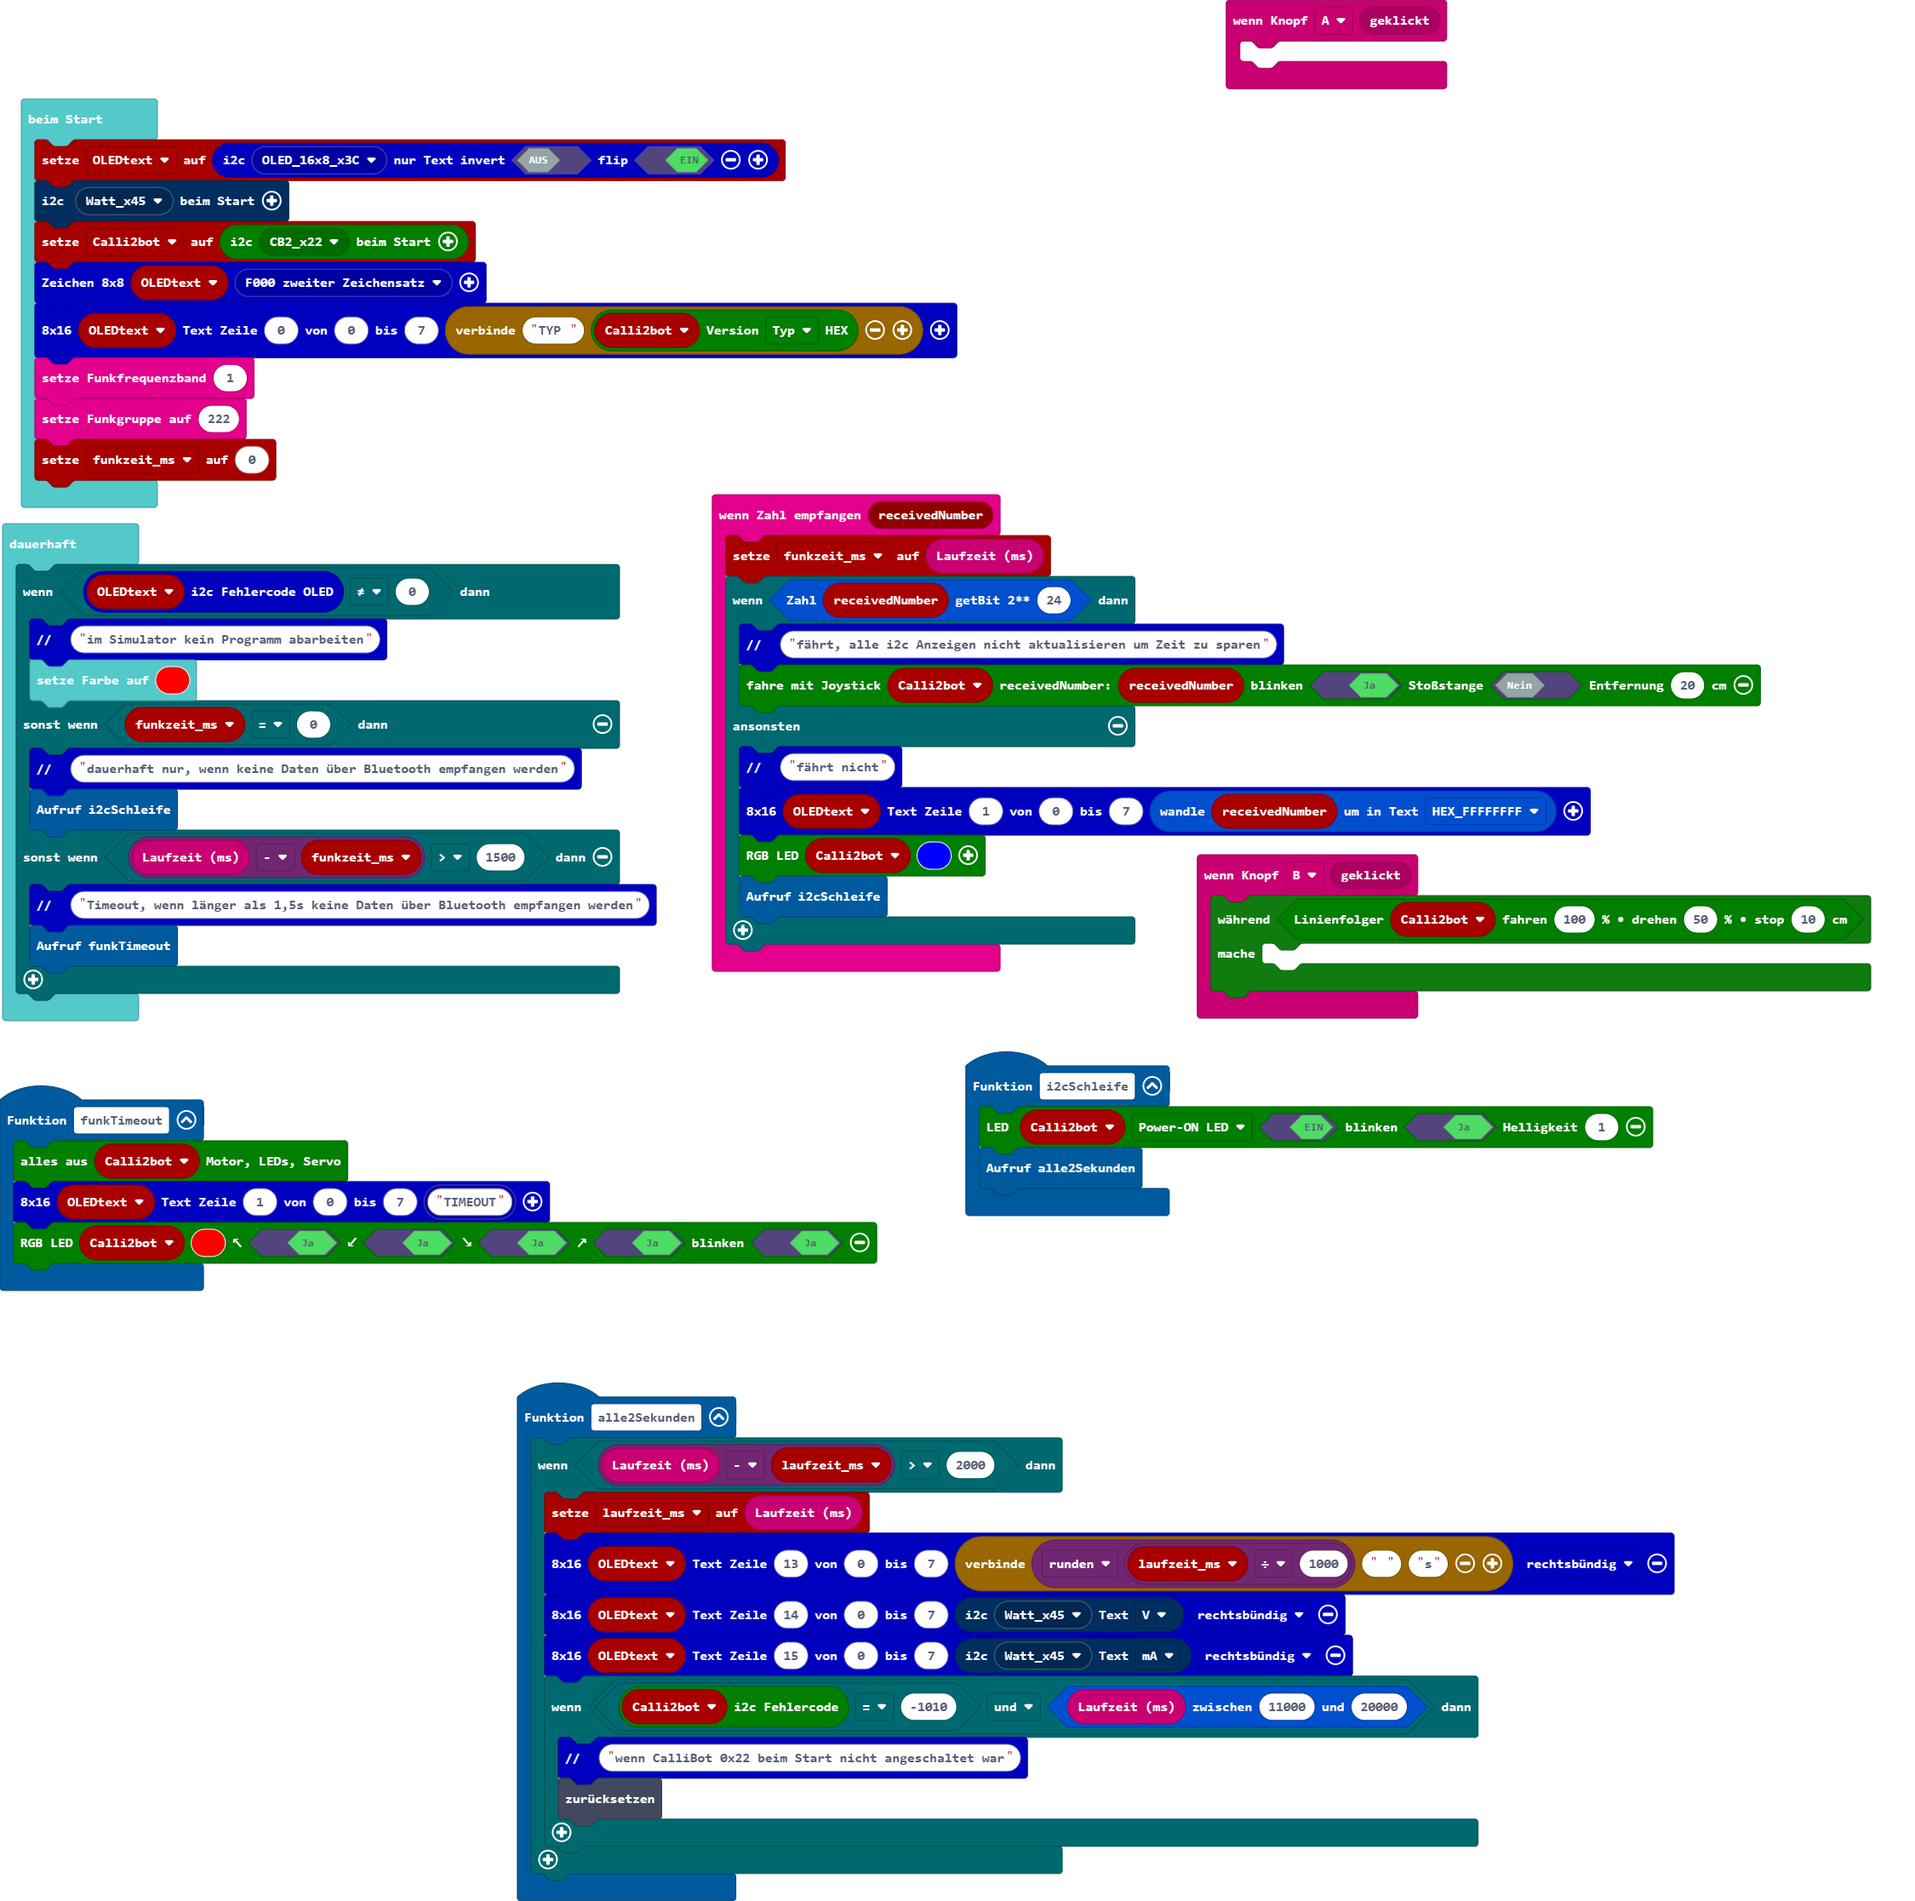
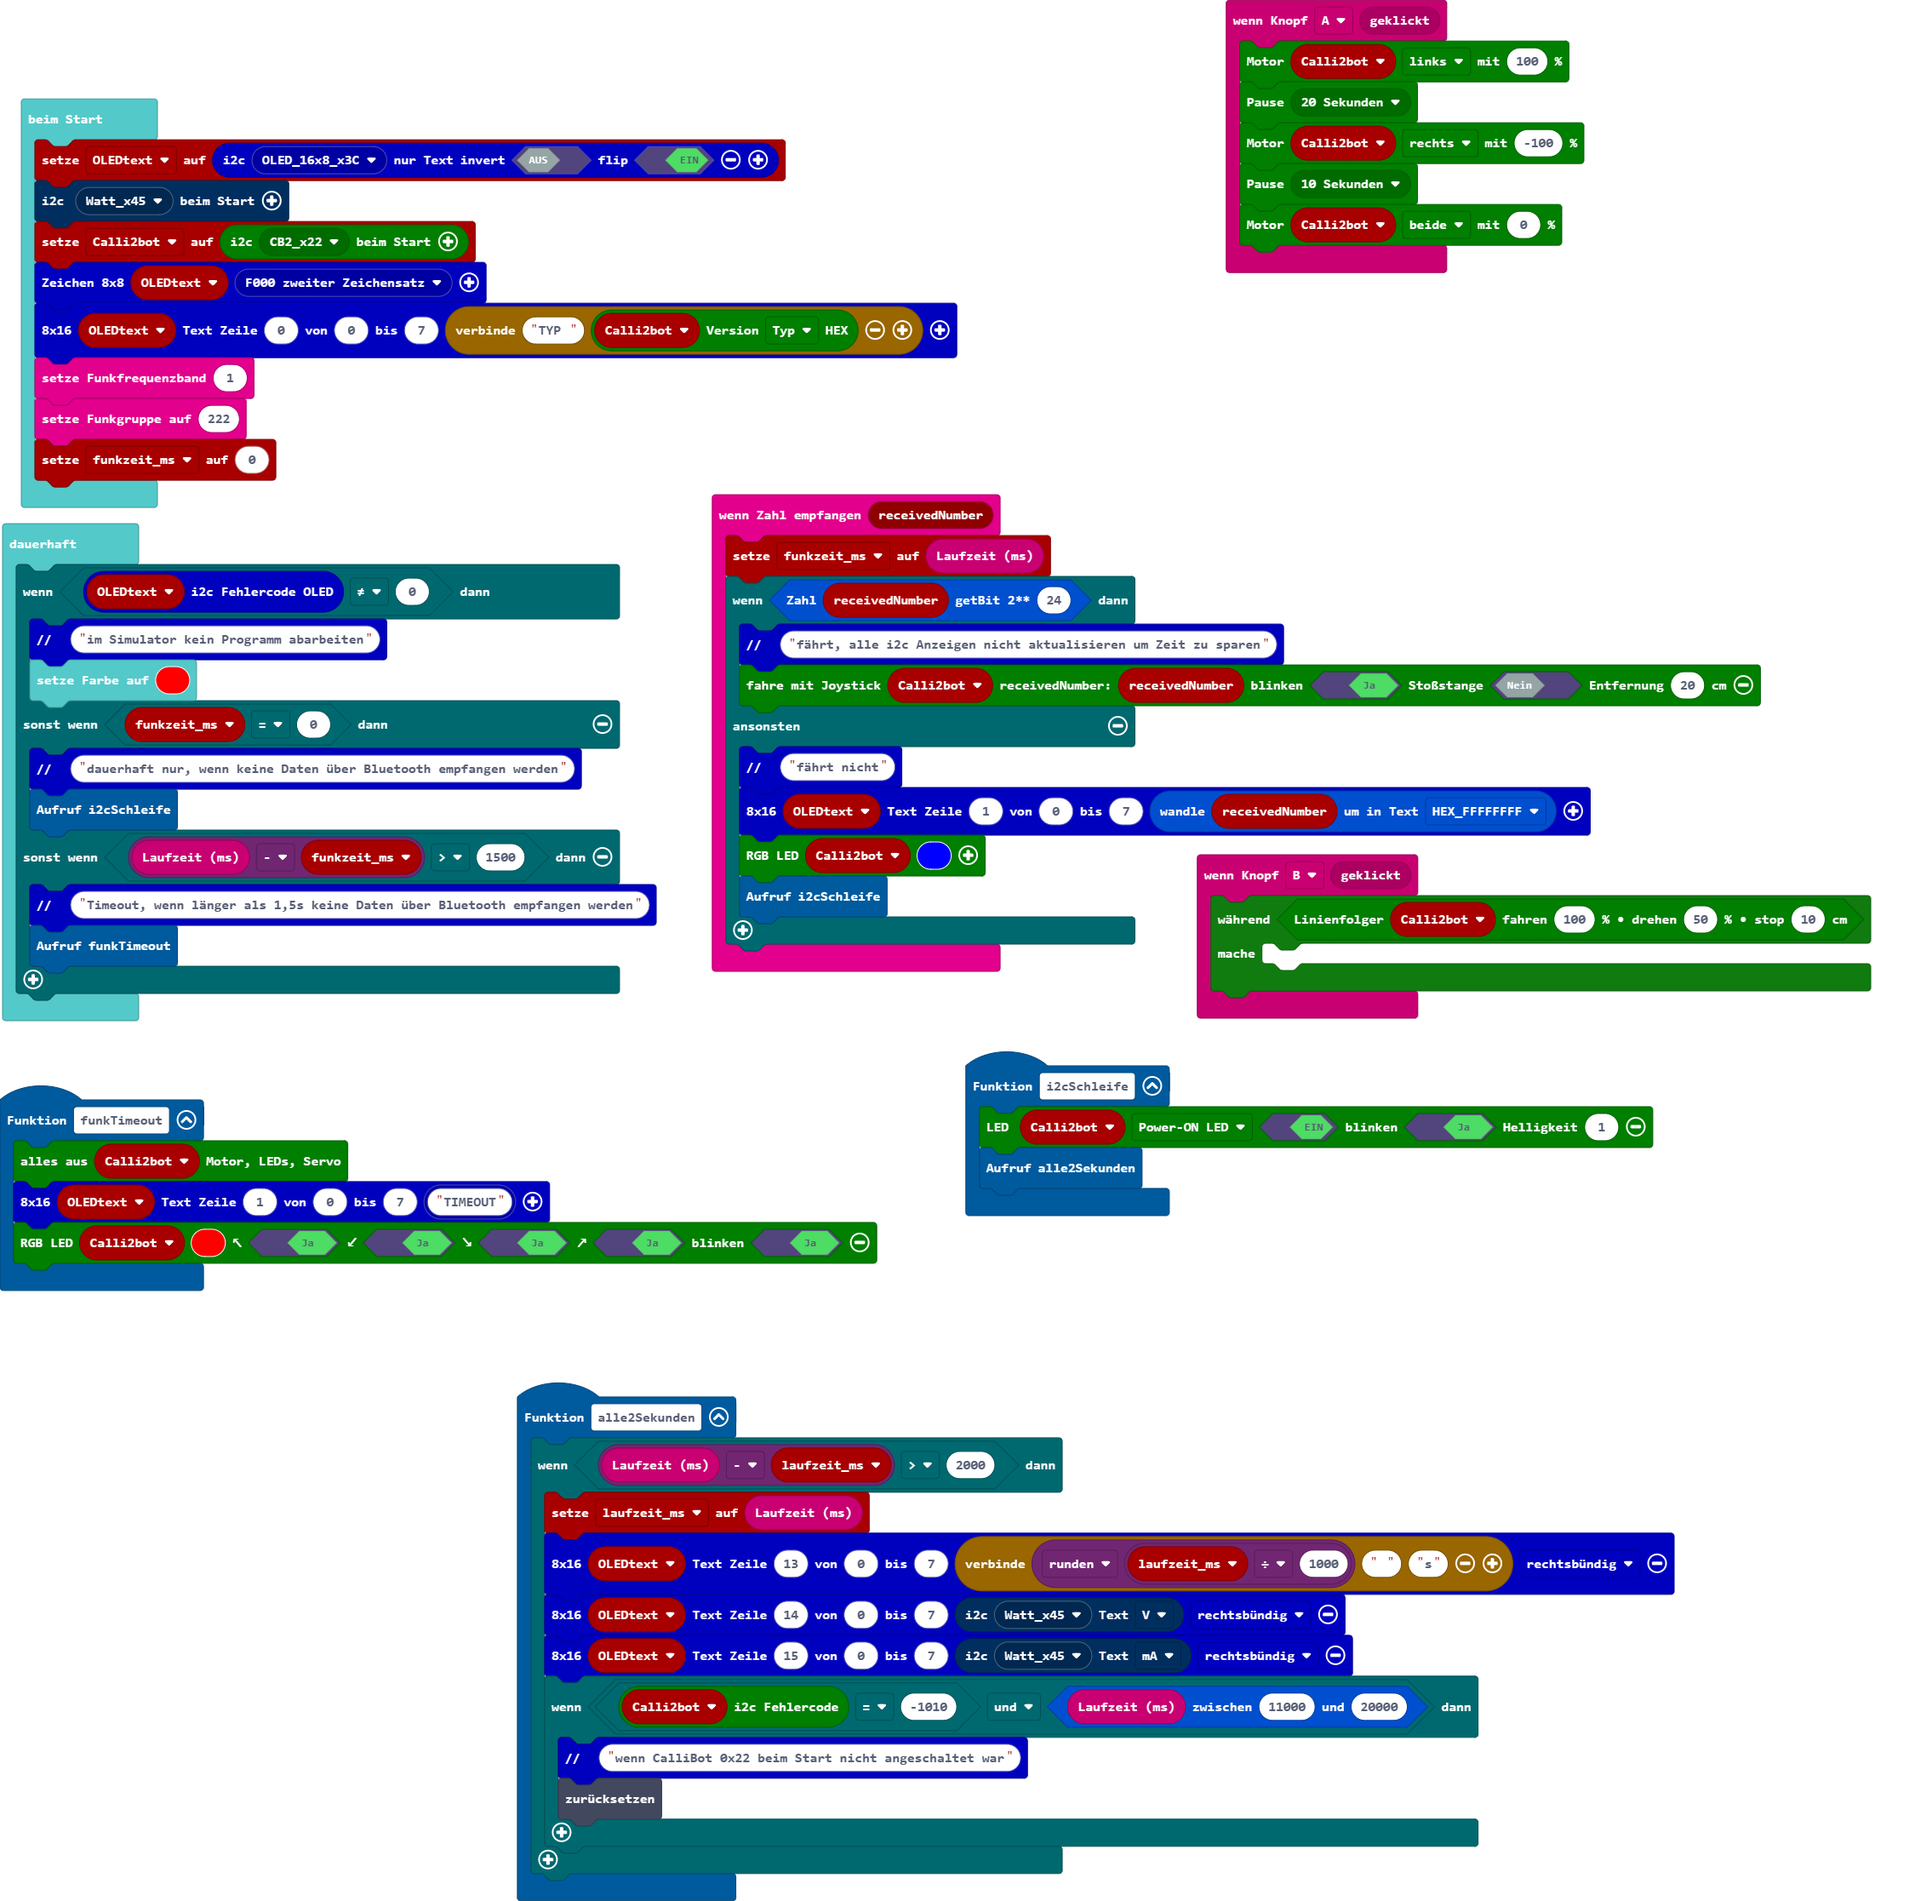
Aktualisiere main.blocks, main.ts

Changed region(s): [[0.6222, 0.0, 0.84, 0.1545]]

diff --git a/main.ts b/main.ts
@@ -16,7 +16,11 @@ function funkTimeout () {
     Calli2bot.setRgbLed3(0xff0000, true, true, true, true, true)
 }
 input.onButtonEvent(Button.A, input.buttonEventClick(), function () {
-	
+    Calli2bot.setMotor(calli2bot.eMotor.m1, 100)
+    calli2bot.pause(calli2bot.calli2bot_ePause(calli2bot.ePause.p20))
+    Calli2bot.setMotor(calli2bot.eMotor.m2, -100)
+    calli2bot.pause(calli2bot.calli2bot_ePause(calli2bot.ePause.p10))
+    Calli2bot.setMotor(calli2bot.eMotor.beide, 0)
 })
 input.onButtonEvent(Button.B, input.buttonEventClick(), function () {
     while (Calli2bot.seite9Linienfolger(100, 50, 10)) {
